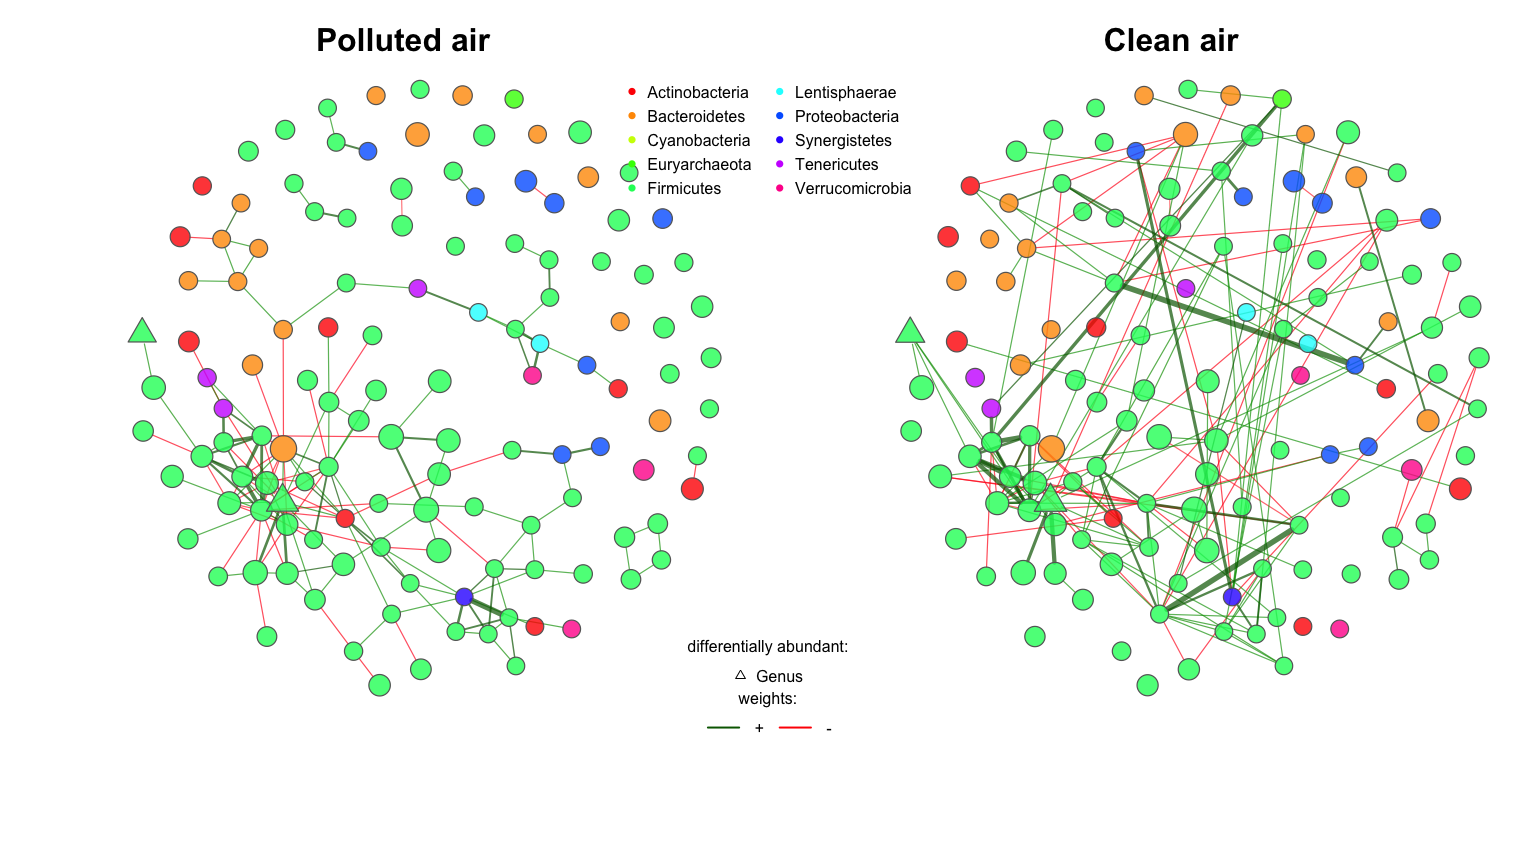
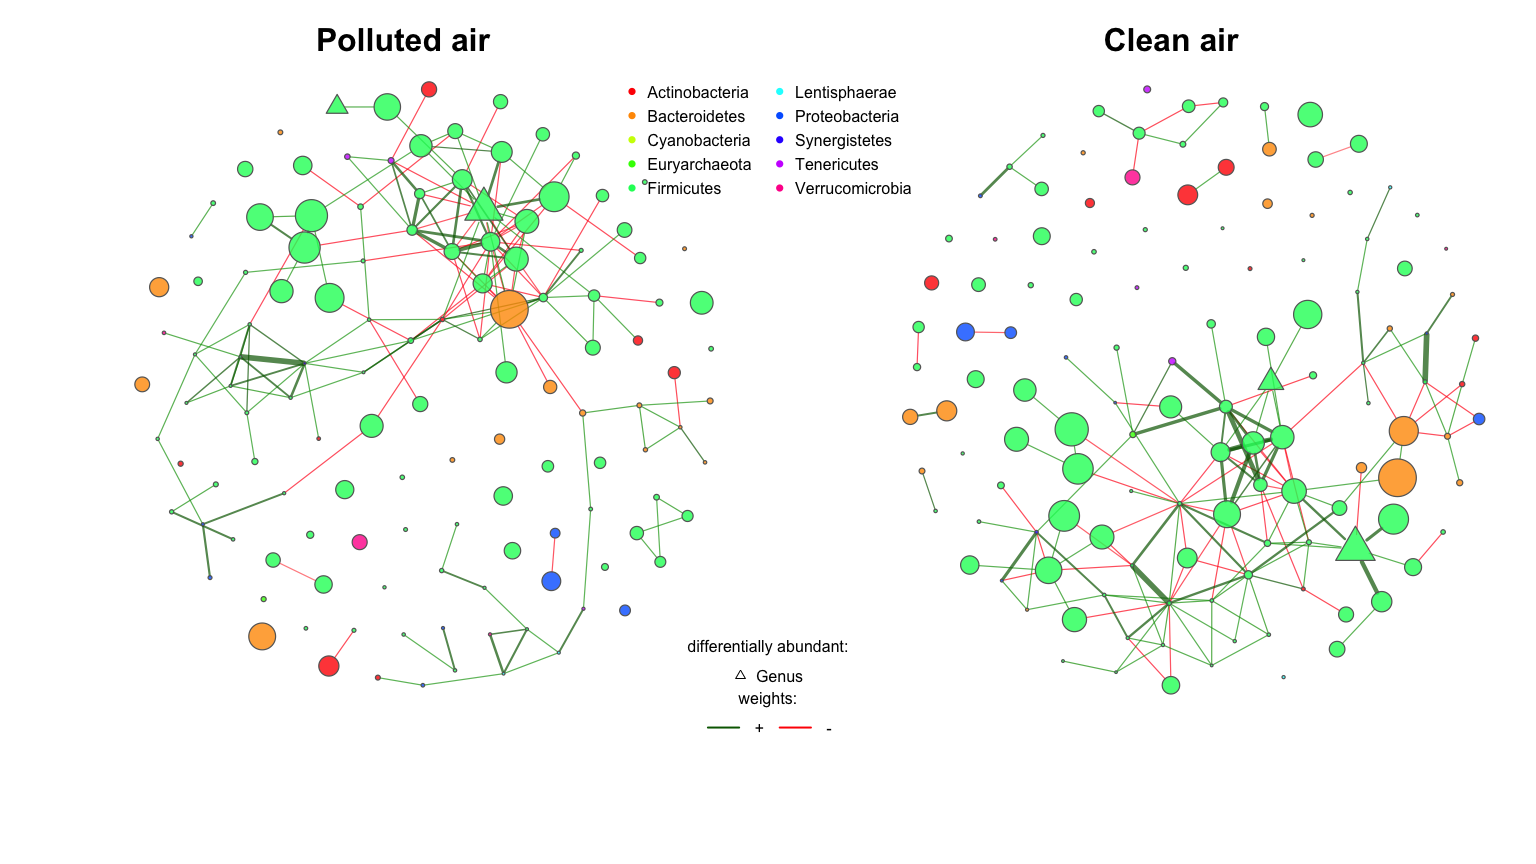
new plots paper

Changed region(s): [[0.5625, 0.0938, 0.9688, 0.8125], [0.0625, 0.0938, 0.4688, 0.8125], [0.1562, 0.7188, 0.1875, 0.75]]

diff --git a/5_networks/5.2.1_Networks_viz_Gen.md b/5_networks/5.2.1_Networks_viz_Gen.md
@@ -53,16 +53,16 @@ shapeVec <- rep(1, ncol(otu_table(ps_Genus_prune)))
 shapeVec[c(116,5,47)] <- 2
 names(shapeVec) <- names(phyl_ps_prune)
 
-plot(props_W, 
+overall_plot <- plot(props_W, 
      rmSingles = "inboth",
-     layout = "layout_with_fr",
-     sameLayout = TRUE, layoutGroup = 1, labels = FALSE,
+     layout = "spring", repulsion = .85, 
+     # sameLayout = TRUE, layoutGroup = 1, 
+     labels = FALSE,
      featVecCol = phyl_ps_prune, nodeColor = "feature", 
      nodeTransp = 20,
      borderCol = "gray40", highlightHubs = FALSE, 
      nodeSize = "clr",
-     nodeSizeSpread = 1, 
-     cexNodes = 2, cexTitle = 2,
+     cexNodes = .3, cexTitle = 2,
      edgeTranspLow = 30, edgeTranspHigh = 30,
      nodeShape = c("circle", "triangle"),
      featVecShape = shapeVec,
@@ -85,6 +85,37 @@ legend("bottom",
 ```
 
 ![](5.2.1_Networks_viz_Gen_files/figure-gfm/unnamed-chunk-5-1.png)<!-- -->
+\#\# Largest connected component
+
+``` r
+props_W_igraph1 <- graph_from_adjacency_matrix(props_W$input$adjaMat1, weighted = TRUE)
+props_W_igraph2 <- graph_from_adjacency_matrix(props_W$input$adjaMat1, weighted = TRUE)
+
+largest_comp1 <- names(which(clusters(props_W_igraph1)$membership == 1))
+largest_comp2 <- names(which(clusters(props_W_igraph2)$membership == 1))
+
+labels_1 <- as.factor(tax_table(ps_Genus_prune)[, 'Genus'])
+names(labels_1) <- rownames(tax_table(ps_Genus_prune)[, 'Genus'])
+# labels_1[-c(116,5,47)] <- NA
+
+plot(props_W,
+     # rmSingles = "inboth",
+     layout = "spring", repulsion = .85, 
+     # sameLayout = TRUE, layoutGroup = 1, 
+     labels = names(labels_1[largest_comp1]), labelScale = FALSE , cexLabels = 1,
+     featVecCol = phyl_ps_prune, nodeColor = "feature", 
+     nodeTransp = 40,
+     borderCol = "gray40", highlightHubs = FALSE, 
+     nodeSize = "clr",
+     cexNodes = .5, cexTitle = 2,
+     edgeTranspLow = 30, edgeTranspHigh = 30,
+     nodeShape = c("circle", "triangle"),
+     featVecShape = shapeVec,
+     mar = c(6,5,3,2), groupNames = c("Polluted air", "Clean air"),
+     nodeFilter = "names", nodeFilterPar = largest_comp1)
+```
+
+![](5.2.1_Networks_viz_Gen_files/figure-gfm/unnamed-chunk-6-1.png)<!-- -->
 
 ## Network properties
 
@@ -106,15 +137,15 @@ nclust_2 <- max(as.numeric(names(table(props_W$clustering$clust2))))+1
 nclust <- nclust_1 + nclust_2
 col <- sample(polychrome(nclust))
 
-set.seed(1)
+set.seed(13)
 plot_cluster <- plot(props_W,
-     layout = "layout_with_fr",
-     sameLayout = TRUE, layoutGroup = 1, 
+     layout = "spring",
+     # sameLayout = TRUE, layoutGroup = 1, 
      labels = FALSE, 
      labelFont = 1, cexLabels = 2,
      nodeColor = "cluster",
      colorVec = col,
-     sameColThresh = 2,
+     sameColThresh = 4,
      nodeTransp = 40, 
      borderCol = "gray40", highlightHubs = FALSE,
      nodeSize = "clr", cexNodes = 1, 
@@ -138,7 +169,7 @@ legend("bottom",
        bty="n", horiz = FALSE) 
 ```
 
-![](5.2.1_Networks_viz_Gen_files/figure-gfm/unnamed-chunk-8-1.png)<!-- -->
+![](5.2.1_Networks_viz_Gen_files/figure-gfm/unnamed-chunk-9-1.png)<!-- -->
 
 #### Shared nodes among modules
 
@@ -190,39 +221,56 @@ legend(x=.1, y=-1.1, legend=legend_cats$size_text, pt.cex=legend_cats$size_circl
        title = "Module size (nb. of nodes):")
 ```
 
-![](5.2.1_Networks_viz_Gen_files/figure-gfm/unnamed-chunk-9-1.png)<!-- -->
+![](5.2.1_Networks_viz_Gen_files/figure-gfm/unnamed-chunk-10-1.png)<!-- -->
 
-#### Module 3 split (polluted air)
+#### Big modules structure
 
 ``` r
-names_clust <- as.character(names(which(props_W$clustering$clust1 == 3)))
+names_clust <- as.character(c(names(props_W$clustering$clust1)[which(props_W$clustering$clust1 %in% c(3))],
+                            names(props_W$clustering$clust2)[which(props_W$clustering$clust2 %in% c(4))]))
+names_clust <- unique(names_clust)
 # labels_phyl <- substr(as.character(phyl_ps_prune[names_clust]), 1, 3)
 col_module <- unique(plot_cluster$nodecolor$nodecol1[names_clust],
                      plot_cluster$nodecolor$nodecol2[names_clust])
 
+plot_zoom <- plot(props_W, 
+     sameLayout = TRUE, layoutGroup = 2, 
+     featVecCol = phyl_ps_prune[names_clust],
+     nodeColor = "feature",
+     nodeFilter = "names",
+     nodeFilterPar = names_clust)
+```
+
+![](5.2.1_Networks_viz_Gen_files/figure-gfm/unnamed-chunk-11-1.png)<!-- -->
+
+``` r
+order_labels <- plot_zoom$labels$labels1 ## save the ordered lanels and then replug in figure above 
+
 plot(props_W, 
-     sameLayout = TRUE, layoutGroup = 1, 
-     # labels = list(props_W$clustering$clust1[names_clust], props_W$clustering$clust2[names_clust]), 
-     charToRm = "Seq",
+     sameLayout = TRUE, layoutGroup = 2, 
+     repulsion = .8,
+     # charToRm = "Seq",
+     labels = as.character(labels_1[order_labels]),
      labelFont = 1, 
-     cexLabels = 1,
+     cexLabels = .8,
      labelScale = FALSE,
-     nodeColor = "colorVec",
-     colorVec = list(plot_cluster$nodecolor$nodecol1[names_clust],
-                  plot_cluster$nodecolor$nodecol2[names_clust]),
+     featVecCol = phyl_ps_prune[names_clust],
+     nodeColor = "feature",
+     # nodeColor = "colorVec",
+     # colorVec = list(plot_cluster$nodecolor$nodecol1[names_clust],
+     #              plot_cluster$nodecolor$nodecol2[names_clust]),
      sameClustCol = FALSE,
-     # sameColThresh = 20,
      borderCol = "gray40", highlightHubs = FALSE,
-     nodeSize = "clr", cexNodes = 1.5, 
+     nodeSize = "clr", cexNodes = 1.5, nodeTransp = 40,
      nodeFilter = "names",
      nodeShape = c("circle", "triangle"),
      featVecShape = shapeVec[names_clust],
      nodeFilterPar = names_clust,
-     edgeTranspLow = 10, edgeTranspHigh = 10,
+     edgeTranspLow = 30, edgeTranspHigh = 30,
      groupNames = c("Polluted air", "Clean air"))
 ```
 
-![](5.2.1_Networks_viz_Gen_files/figure-gfm/unnamed-chunk-10-1.png)<!-- -->
+![](5.2.1_Networks_viz_Gen_files/figure-gfm/unnamed-chunk-11-2.png)<!-- -->
 
 ``` r
 tax_table(ps_Genus_prune)[c("Seq46","Seq21","Seq56","Seq517","Seq288","Seq11"),]
